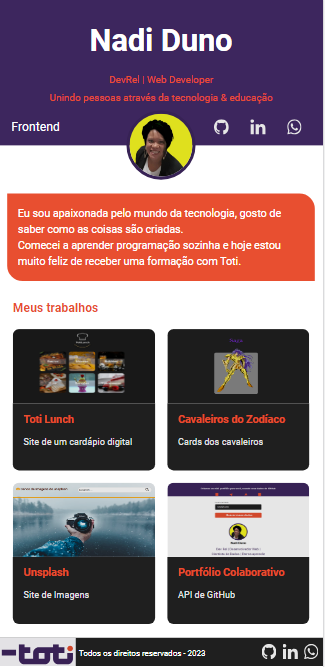
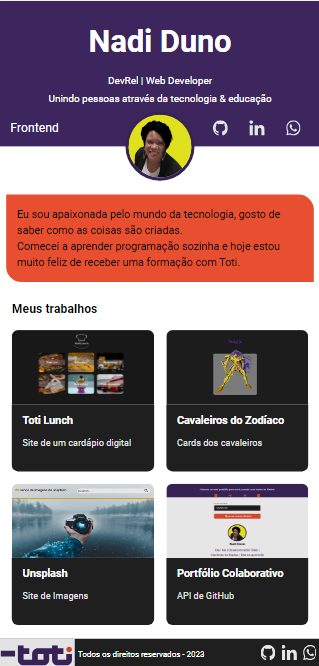
Update Code

Changed region(s): [[0.0, 0.0, 1.0, 1.0]]

diff --git a/style.css b/style.css
@@ -28,7 +28,7 @@ body {
     justify-items: center;
     align-items: center;
     color: #fff;
-    font-size: 16px;
+    font-size: 1rem;
 }
 
 .name {
@@ -81,8 +81,7 @@ a:hover {
     width: 100%;
     display: flex;
     justify-content: center;
-    margin-bottom: 0.75rem;
-    margin-top: -3rem;
+    margin: -3rem 0 0.75rem;
 }
 
 .photo img {
@@ -145,7 +144,7 @@ a:hover {
 .boxTop {
     width: 11.563rem;
     height: 6.063rem;
-    border-radius: 8px 8px 0px 0px;
+    border-radius: 8px 8px 0 0;
     overflow: hidden;
 }
 
@@ -158,7 +157,7 @@ a:hover {
     width: 11.563rem;
     height: 5.438rem;
     background: #1F1F1F;
-    border-radius: 0px 0px 8px 8px;
+    border-radius: 0 0 8px 8px;
 }
 
 .boxBottom p {
@@ -207,13 +206,13 @@ a:hover {
 
 
 @media screen and (min-width: 769px) {
+    .work {
+        width: 70%;
+    }
+
     .card {
         width: 22rem;
         height: 16rem;
-    }
-
-    .work {
-        width: 70%;
     }
 
     .boxTop {
